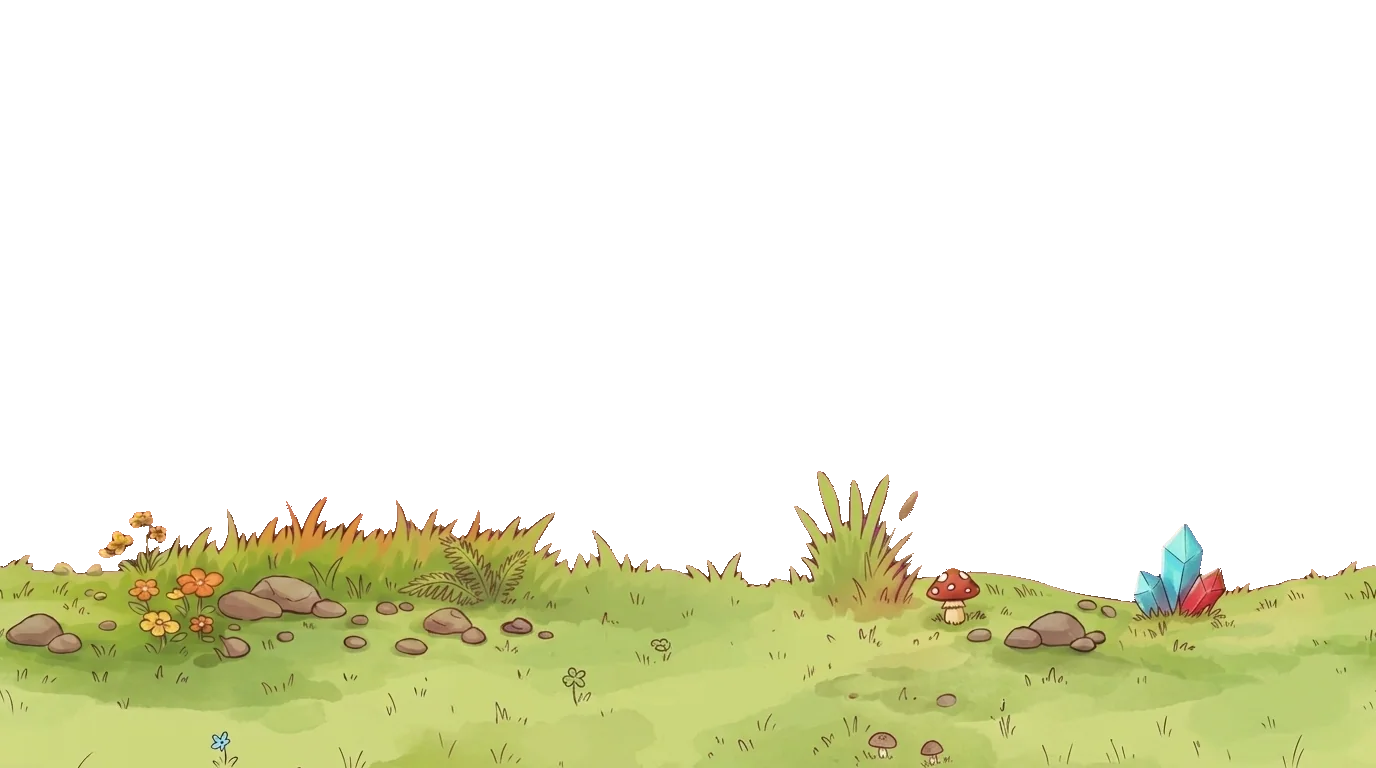
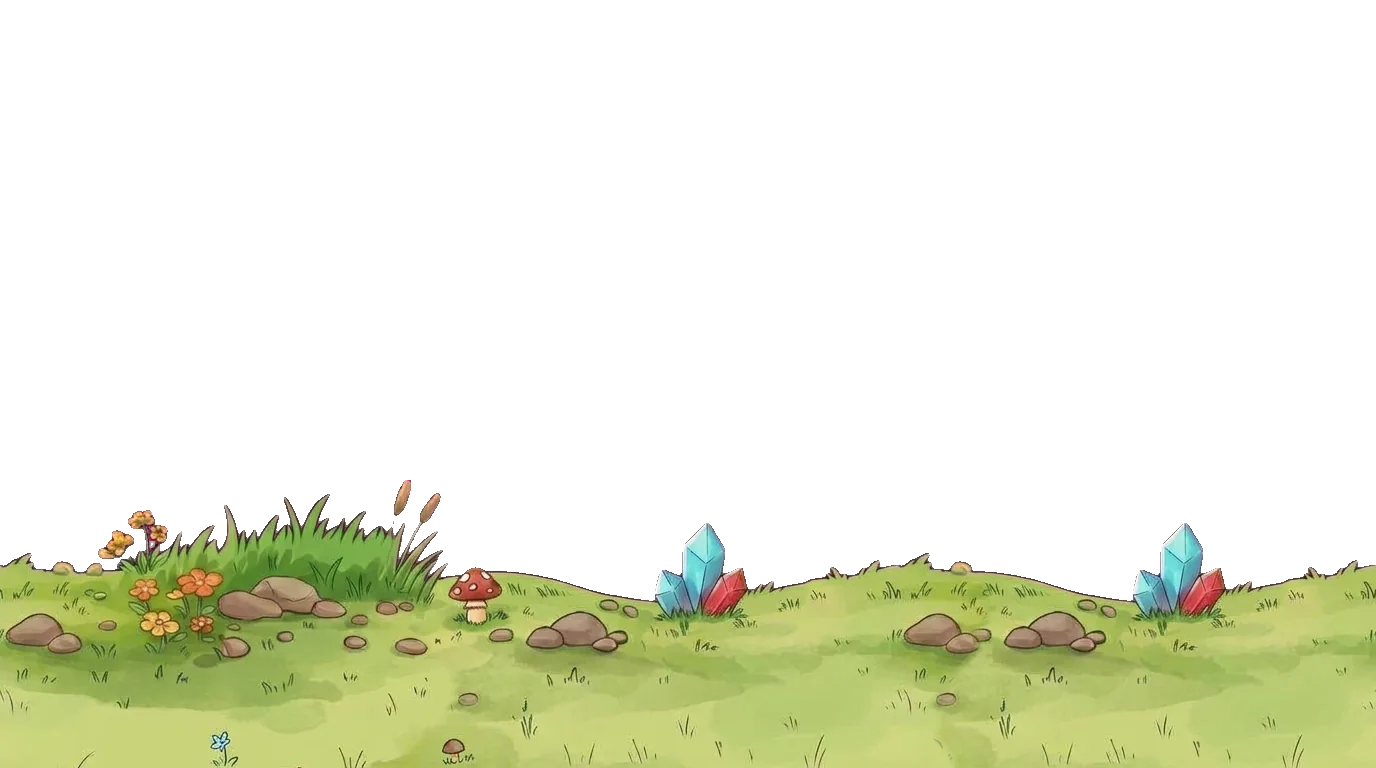
feat(valley): owner's redrawn middle and near bands, joined to repeat, usual keying only
Claude-Session: https://claude.ai/code/session_01MAZwqVJqrTUDA5csgByiYr

diff --git a/assets-src/PROMPTS.md b/assets-src/PROMPTS.md
@@ -466,8 +466,8 @@ flat storybook style and no longer apply.
 | `bg-planet-mid.jpg` | (the owner's picture, 2026-10-28) soft yellow-green hills with small mushrooms and flower bushes, then a wide calm grass field | full | done 2026-10-28 (seam by Gemini, tint cleaned, moved down 200 px) |
 | `bg-planet-near.jpg` | (the owner's picture, 2026-10-28) a sandy path with pebbles, small crystals and mushrooms along its upper edge, calm grass below | full | done 2026-10-28 (seam by Gemini, tint cleaned, moved down 240 px: the path's middle at 89 % of the stage, where Tapko walks) |
 | `bg-dragons-far.jpg` | a peaceful dragon valley at sunset, warm orange and pink colours in the sky, the sun hidden behind the mountains, soft rounded mountains and a waterfall | full | done 2026-10-23 |
-| `bg-dragons-mid.jpg` | (the owner's picture, 2026-10-29) grey rocks with moss, a cave with a glowing crystal, a tree with orange blossoms, a big fly agaric on a grassy hill, then a wide calm meadow | full | done 2026-10-29 (seam by Gemini, moved down 224 px: its top at 55 % from the bottom) |
-| `bg-dragons-near.jpg` | (the owner's picture, 2026-10-29) grass with orange tips, pebbles, flowers, a fern, a small fly agaric and a blue and red crystal, then calm grass (no eggshells) | full | done 2026-10-29 (seam by Gemini; key tint cleaned and `defringe.mjs` 6 passes; moved down 405 px: its top at 27 % from the bottom) |
+| `bg-dragons-mid.jpg` | (the owner's picture, redrawn 2026-10-29) grey rocks with moss, a cave with a glowing crystal, a tree with orange blossoms, a big fly agaric on a grassy hill, then a wide calm meadow | full | done 2026-10-29 (seam by Gemini, moved down 224 px: its top at 55 % from the bottom) |
+| `bg-dragons-near.jpg` | (the owner's picture, redrawn 2026-10-29 with a clean edge on the key) green grass tufts, pebbles, flowers, a fern, a small fly agaric and a blue and red crystal, then calm grass | full | done 2026-10-29 (seam quilted from the picture itself: Gemini's seam drew a dark purple fern; moved down 405 px: its top at 27 % from the bottom; the usual keying only) |
 | `bg-egg-far.jpg` | a bright morning valley with a long gentle grassy slope going down from left to right, a few trees and a blue river far away | full | done 2026-10-23 |
 | `bg-egg-mid.jpg` | a bush with yellow flowers, a leaning tree, a mossy boulder, a haystack, a pine, a bush with pink flowers, a signpost with empty boards and a rocky outcrop with ferns | 50 % | done 2026-10-23 |
 | `bg-egg-near.jpg` | only plants and small things: grass, yellow flowers, a pink wild rose, foxtail, a fern, a broken spotted eggshell, daisies, a mushroom and a thistle; no big rocks | 20 % | done 2026-10-23 |
